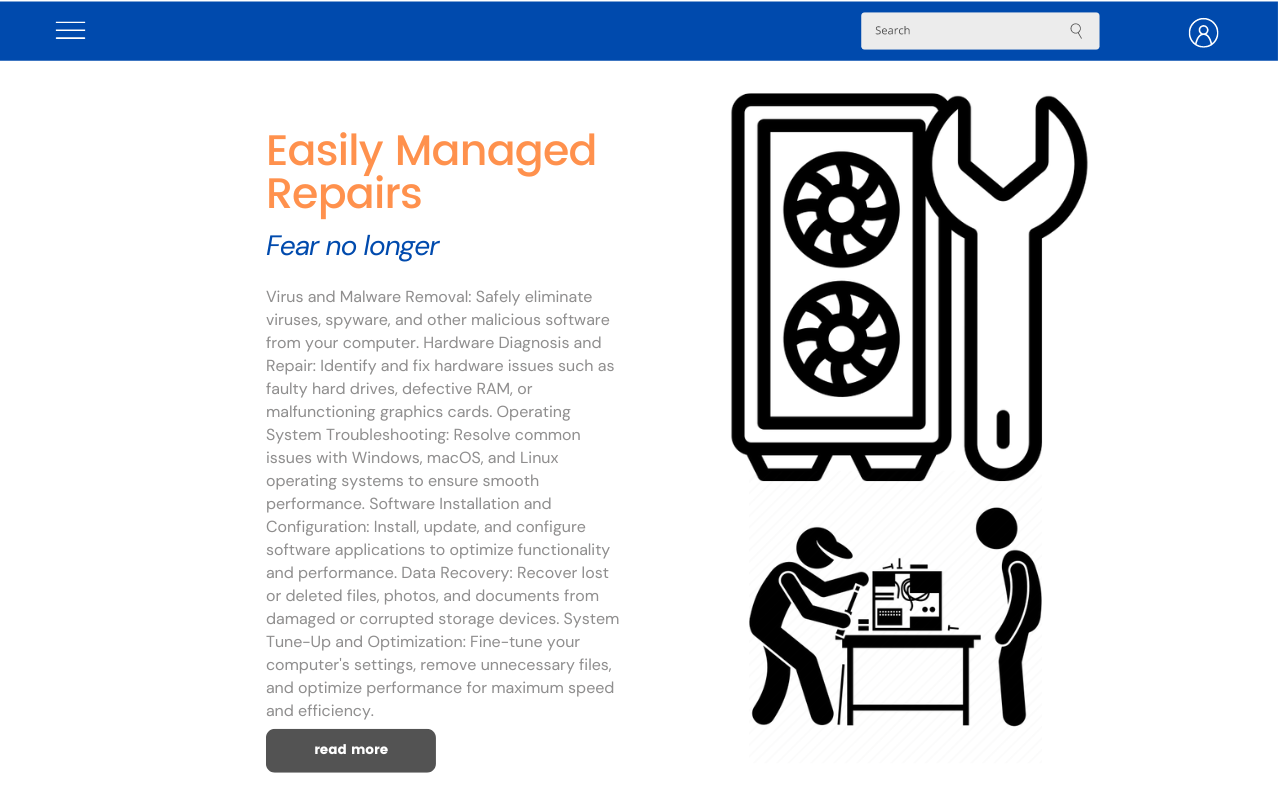
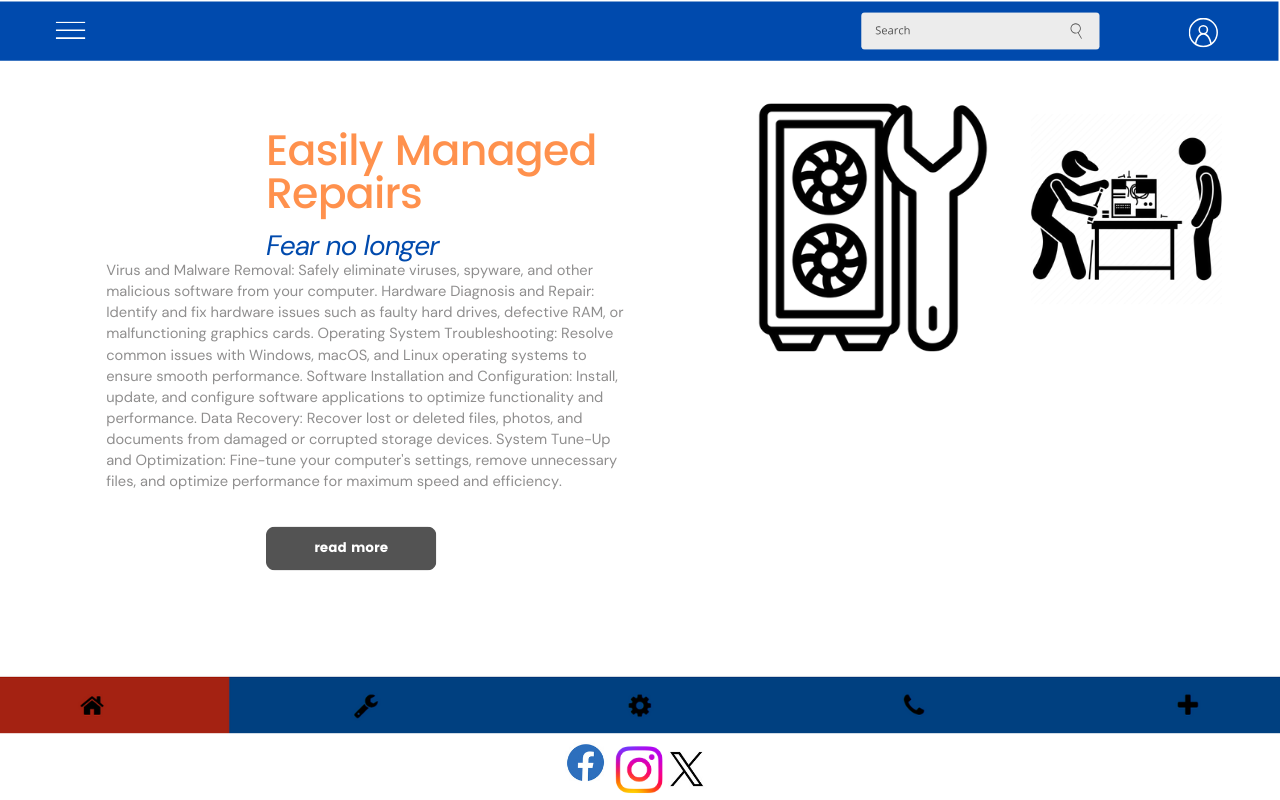
new file:   mikes pc repair/images/Screenshot 2024-04-10 200133.png 	modified:   mikes pc repair/images/child1_wf.png 	modified:   mikes pc repair/images/child2_wf.png 	modified:   mikes pc repair/index.html 	modified:   mikes pc repair/repair.html 	modified:   mikes pc repair/upgrade.html

Changed region(s): [[0.0, 0.0938, 1.0, 1.0], [0.9375, 0.0312, 0.9688, 0.0625]]

diff --git a/mikes pc repair/repair.html b/mikes pc repair/repair.html
@@ -32,6 +32,7 @@
             <a href="repair.html" class="repair-link"><i class="fa fa-wrench"></i></a>
             <a href="upgrade.html" class="upgrade-link"><i class="fa fa-gear"></i></a>
             <a href="contact.html" class="contact-link"><i class="fa fa-phone"></i></a>
+            <a href="site-plan.html" class="site-plan"><i class="fa fa-plus"></i></a>
   </div>
         <img src="images/2repair.png" alt="Repair logo">
         <img src="images/to_build.png" alt="Repair image">

diff --git a/mikes pc repair/upgrade.html b/mikes pc repair/upgrade.html
@@ -44,6 +44,7 @@
             <a href="repair.html" class="repair-link"><i class="fa fa-wrench"></i></a>
             <a href="upgrade.html" class="upgrade-link"><i class="fa fa-gear"></i></a>
             <a href="contact.html" class="contact-link"><i class="fa fa-phone"></i></a>
+            <a href="site-plan.html" class="site-plan"><i class="fa fa-plus"></i></a>
   </div>
     <img src="images/to_repair3.png" alt="Upgrade image">
     <img src="images/build_icon.png" alt="Update build">

diff --git a/mikes pc repair/index.html b/mikes pc repair/index.html
@@ -72,6 +72,7 @@
             <a href="repair.html" class="repair-link"><i class="fa fa-wrench"></i></a>
             <a href="upgrade.html" class="upgrade-link"><i class="fa fa-gear"></i></a>
             <a href="contact.html" class="contact-link"><i class="fa fa-phone"></i></a>
+            <a href="site-plan.html" class="site-plan"><i class="fa fa-plus"></i></a>
   </div>
 </body>
 </html>
